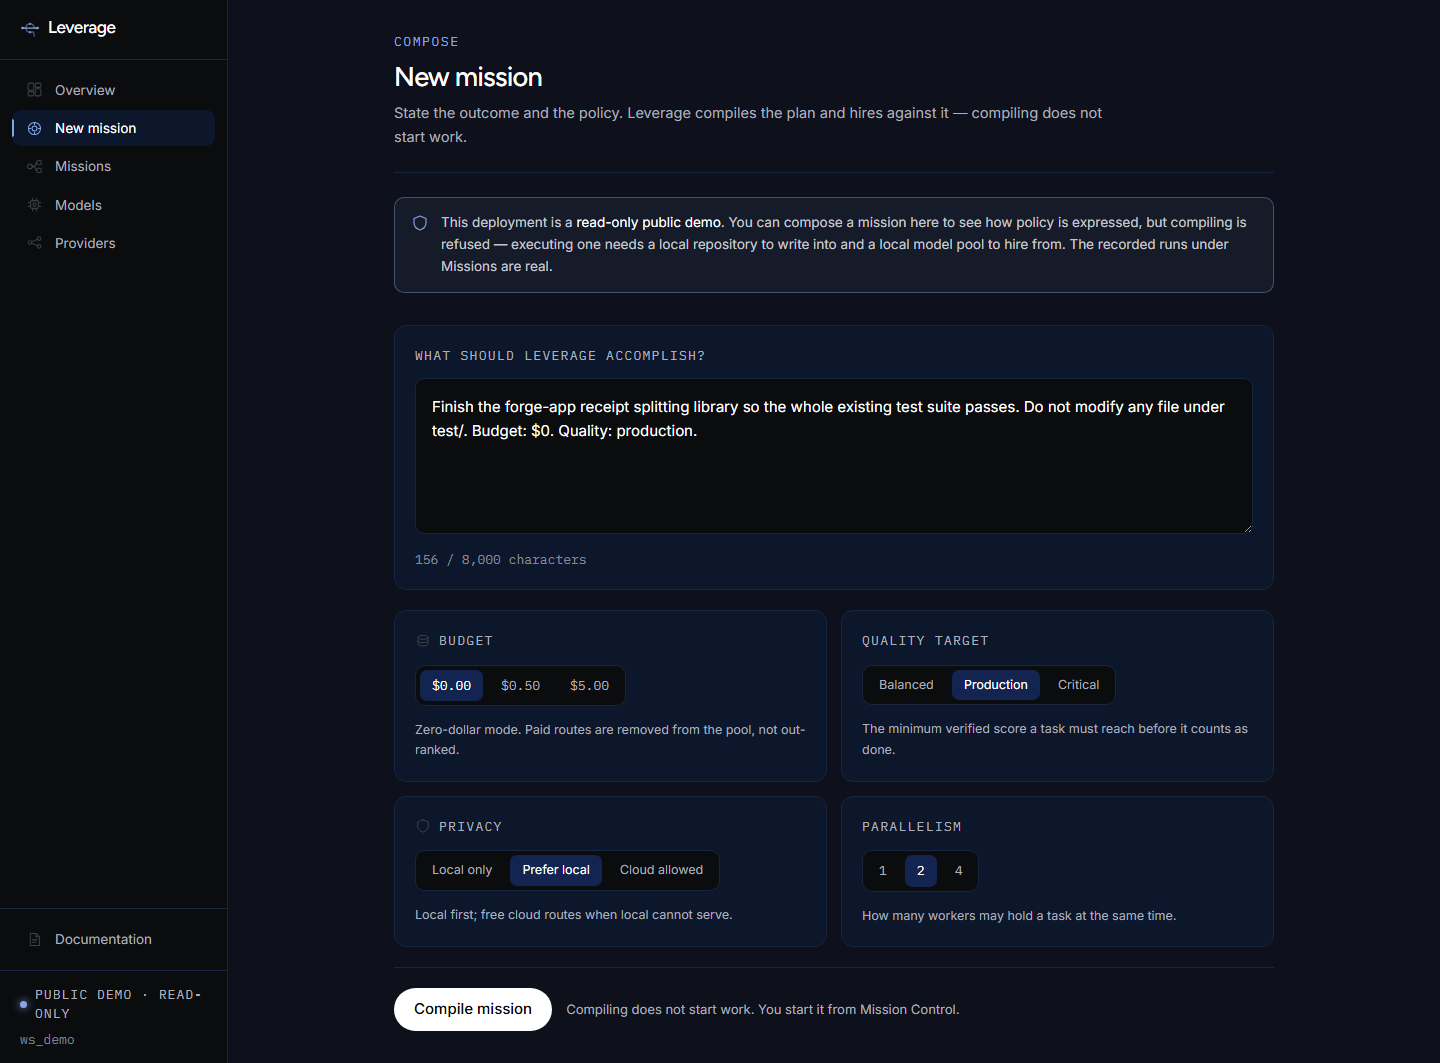
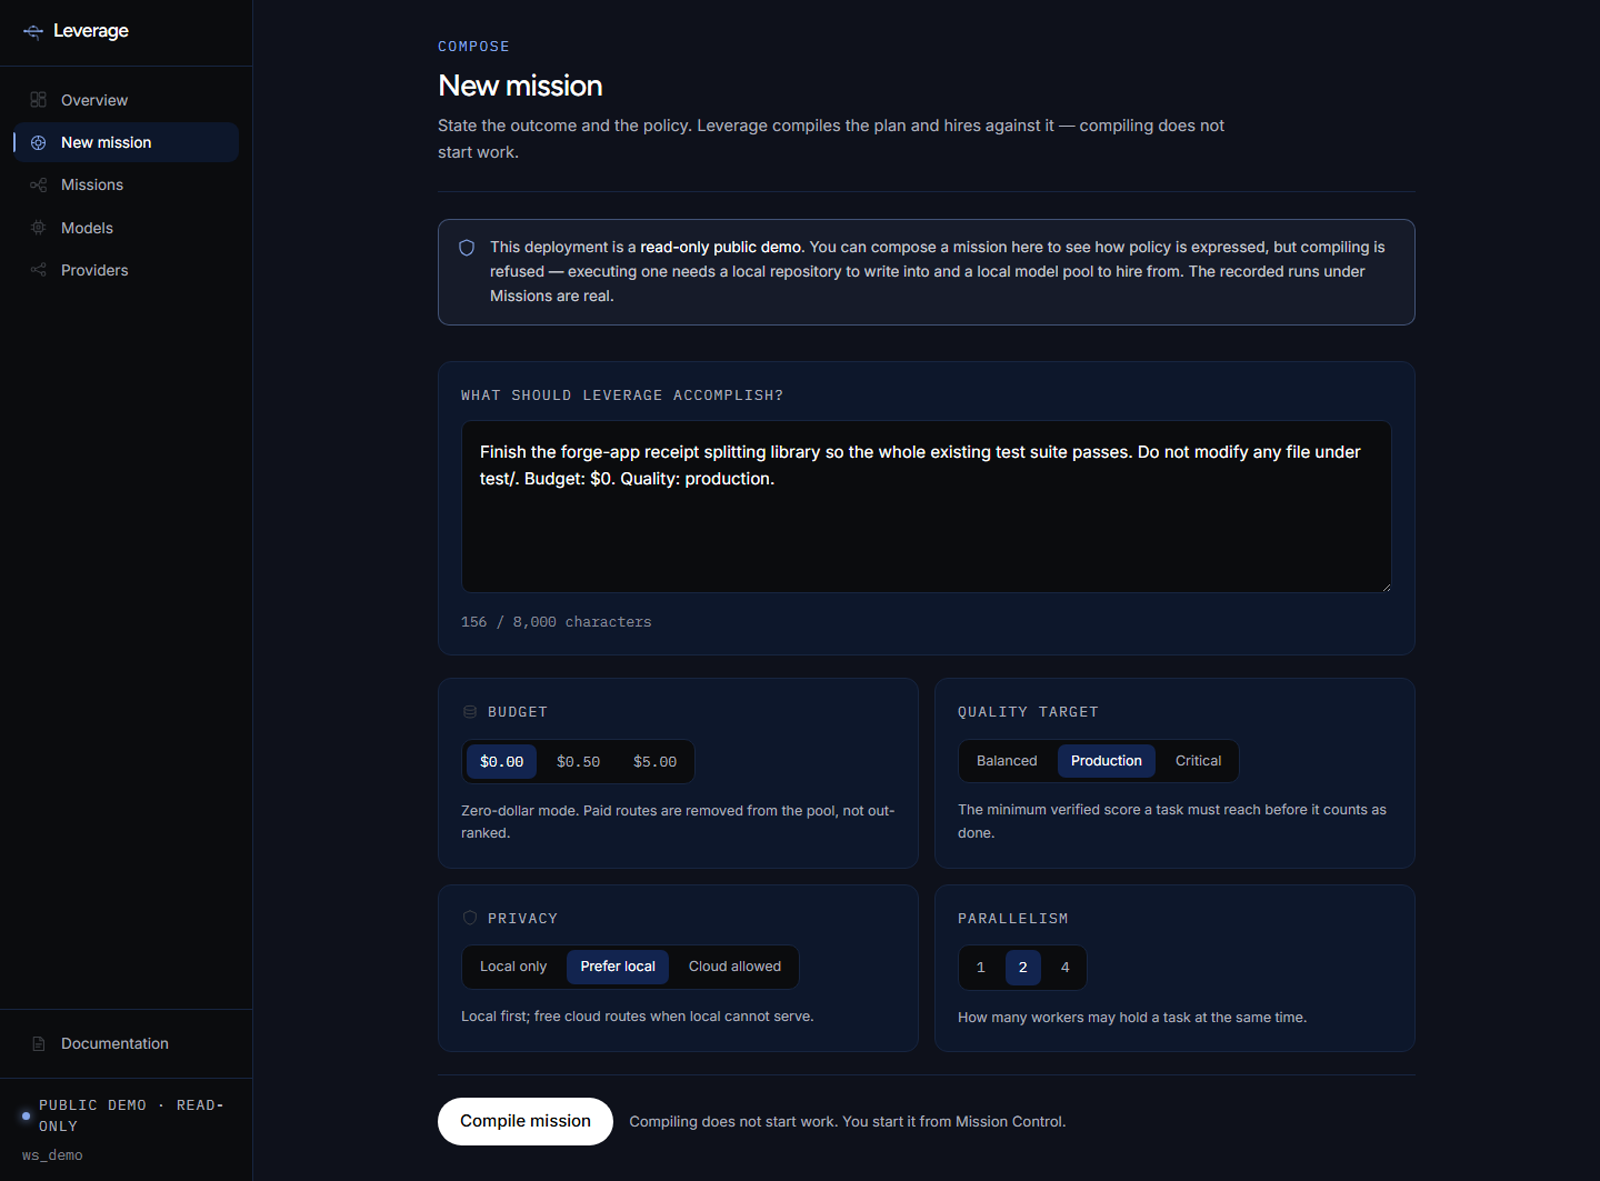
docs: put the product in the README, and gradient the state accents
The repo opened with prose and no picture of the thing. Adds the landing page,
the replay, Mission Control and the providers grid, plus badges that link to the
artifact behind each claim rather than asserting it.

The status dot was a flat fill, which reads as a printed circle. It is now a
radial gradient lit from the top left with a ring underneath, and the halo it
pulses is a gradient rather than a solid disc. Pill fills and the stat accent
rules follow the same light direction as the glass rims, so state badges belong
to the same material language. Pill text stays solid: gradient text at 10.5px is
unreadable.

Also fixes the contrast audit, which reported gradient-clipped text as 1.07:1
because background-clip lives on the parent while the text sits in a child span.
It walks ancestors now. Re-run after the fix: 12 pages, 0 failures.

diff --git a/src/components/app/shell.tsx b/src/components/app/shell.tsx
@@ -114,7 +114,10 @@ export function Stat({
       <span
         aria-hidden
         className="absolute inset-y-0 left-0 w-[2px]"
-        style={{ background: accent, opacity: tone === 'neutral' ? 0.5 : 0.9 }}
+        style={{
+          backgroundImage: `linear-gradient(180deg, ${accent} 0%, ${accent} 42%, transparent 100%)`,
+          opacity: tone === 'neutral' ? 0.55 : 0.95,
+        }}
       />
       <div className="flex items-start justify-between gap-3">
         <div className="mono text-[10.5px] uppercase tracking-[0.1em] text-[var(--color-ash)]">
@@ -201,16 +204,37 @@ export function Cell({
 
 export type Tone = 'pass' | 'fail' | 'warn' | 'live' | 'idle';
 
+/*
+ * Pill fills are gradients rather than flat tints, lit from the top left like the
+ * glass rims so state badges belong to the same material language. The text colour
+ * stays solid: gradient text at 10.5px is unreadable.
+ */
 const TONES: Record<Tone, { fg: string; bg: string; bd: string }> = {
-  pass: { fg: 'var(--color-state-pass)', bg: 'rgba(74,222,128,0.10)', bd: 'rgba(74,222,128,0.45)' },
-  fail: { fg: 'var(--color-state-fail)', bg: 'rgba(248,113,113,0.10)', bd: 'rgba(248,113,113,0.45)' },
-  warn: { fg: 'var(--color-state-warn)', bg: 'rgba(251,191,36,0.10)', bd: 'rgba(251,191,36,0.42)' },
+  pass: {
+    fg: 'var(--color-state-pass)',
+    bg: 'linear-gradient(135deg, rgba(74,222,128,0.20) 0%, rgba(52,211,153,0.07) 100%)',
+    bd: 'rgba(74,222,128,0.45)',
+  },
+  fail: {
+    fg: 'var(--color-state-fail)',
+    bg: 'linear-gradient(135deg, rgba(248,113,113,0.20) 0%, rgba(239,68,68,0.07) 100%)',
+    bd: 'rgba(248,113,113,0.45)',
+  },
+  warn: {
+    fg: 'var(--color-state-warn)',
+    bg: 'linear-gradient(135deg, rgba(251,191,36,0.20) 0%, rgba(217,119,6,0.07) 100%)',
+    bd: 'rgba(251,191,36,0.42)',
+  },
   live: {
     fg: 'var(--color-frosted-lilac)',
-    bg: 'rgba(133,166,233,0.10)',
+    bg: 'linear-gradient(135deg, rgba(133,166,233,0.22) 0%, rgba(98,95,255,0.08) 100%)',
     bd: 'rgba(133,166,233,0.45)',
   },
-  idle: { fg: 'var(--color-ash)', bg: 'rgba(171,174,187,0.07)', bd: 'var(--color-sapphire-hairline)' },
+  idle: {
+    fg: 'var(--color-ash)',
+    bg: 'linear-gradient(135deg, rgba(171,174,187,0.12) 0%, rgba(171,174,187,0.03) 100%)',
+    bd: 'var(--color-sapphire-hairline)',
+  },
 };
 
 export function Pill({
@@ -226,7 +250,7 @@ export function Pill({
   return (
     <span
       className="mono inline-flex items-center gap-1.5 rounded-full border px-2.5 py-1 text-[10.5px] uppercase tracking-[0.08em]"
-      style={{ color: t.fg, background: t.bg, borderColor: t.bd }}
+      style={{ color: t.fg, backgroundImage: t.bg, borderColor: t.bd }}
     >
       {icon}
       {children}

diff --git a/src/app/page.tsx b/src/app/page.tsx
@@ -130,9 +130,9 @@ export default async function Home() {
               <div className="min-w-0">
                 <Reveal y={12}>
                   <div className="mono mb-7 inline-flex items-center gap-2 rounded-full border border-[var(--color-sapphire-hairline)] bg-[rgba(13,23,43,0.6)] px-3.5 py-1.5 text-[11px] text-[var(--color-frosted-lilac)] backdrop-blur">
-                    <span className="relative flex h-1.5 w-1.5">
-                      <span className="absolute inline-flex h-full w-full animate-ping rounded-full bg-[var(--color-state-pass)] opacity-60" />
-                      <span className="relative inline-flex h-1.5 w-1.5 rounded-full bg-[var(--color-state-pass)]" />
+                    <span className="relative flex h-2 w-2">
+                      <span className="dot-live-halo absolute inline-flex h-full w-full animate-ping rounded-full" />
+                      <span className="dot-live relative inline-flex h-2 w-2 rounded-full" />
                     </span>
                     Hire your own host seat. No API key.
                   </div>
@@ -622,11 +622,11 @@ function Ribbon({ label, node, accent }: { label: string; node: React.ReactNode;
         {label}
       </div>
       <div
-        className="mt-1.5 text-[28px]"
+        className={`mt-1.5 text-[28px] ${accent ? 'grad-text-pass' : ''}`}
         style={{
           fontFamily: 'var(--font-display)',
           fontWeight: 500,
-          color: accent ? 'var(--color-state-pass)' : 'var(--color-quartz)',
+          color: accent ? undefined : 'var(--color-quartz)',
         }}
       >
         {node}

diff --git a/src/app/globals.css b/src/app/globals.css
@@ -126,6 +126,50 @@ body {
   border-radius: var(--radius-card);
 }
 
+/*
+ * Status dot.
+ *
+ * A flat fill reads as a printed circle. A radial gradient with the light source
+ * offset toward the top left gives it a curved surface, and the ring underneath
+ * separates it from whatever it sits on rather than relying on the fill alone.
+ */
+.dot-live {
+  background:
+    radial-gradient(circle at 32% 28%, #a7f3c8 0%, #4ade80 46%, #16a34a 100%);
+  box-shadow:
+    0 0 0 1px rgba(74, 222, 128, 0.28),
+    0 0 9px 1px rgba(74, 222, 128, 0.5);
+}
+
+.dot-live-halo {
+  background: radial-gradient(circle, rgba(74, 222, 128, 0.55) 0%, rgba(74, 222, 128, 0) 70%);
+}
+
+/*
+ * Gradient rules for the accents that were flat.
+ *
+ * Used on the meaningful pieces only: state, the primary action, section rules.
+ * A gradient on every surface is how a page turns to soup.
+ */
+.grad-text-pass {
+  background: linear-gradient(100deg, #4ade80 0%, #86efac 55%, #34d399 100%);
+  -webkit-background-clip: text;
+  background-clip: text;
+  color: transparent;
+}
+
+.grad-rule {
+  height: 1px;
+  border: 0;
+  background: linear-gradient(
+    90deg,
+    rgba(36, 55, 90, 0) 0%,
+    rgba(133, 166, 233, 0.55) 22%,
+    rgba(98, 95, 255, 0.45) 55%,
+    rgba(36, 55, 90, 0) 100%
+  );
+}
+
 .surface-highlight {
   background: var(--color-cobalt);
   border: 1px solid #1e2b48;

diff --git a/README.md b/README.md
@@ -2,12 +2,21 @@
 
 **One frontier brain. An elastic workforce.**
 
+> Your best model should make the expensive decisions. It should not write the fortieth test.
+
+[![Live](https://img.shields.io/badge/live-useleverage.vercel.app-4ade80?style=flat-square)](https://useleverage.vercel.app)
+[![Tests](https://img.shields.io/badge/tests-47%20passing-4ade80?style=flat-square)](tests/invariants.test.ts)
+[![Paid inference](https://img.shields.io/badge/actual%20paid%20inference-%240.00-4ade80?style=flat-square)](demo/canonical-run.json)
+[![RocketRide](https://img.shields.io/badge/RocketRide-staging%20verified-85a6e9?style=flat-square)](docs/ROCKETRIDE_FINDINGS.md)
+
 **Live: https://useleverage.vercel.app** — a read-only public demo, seeded with the
 runs that actually happened. Every mutating route answers `403`; executing a mission
 needs a local repository to write into and a local model pool to hire from.
 
+![Leverage landing page](docs/shots/landing-hero.png)
+
 Leverage gives Claude, Codex and other MCP hosts a dynamic workforce of local, free and
-connected models — then verifies the work and replaces workers that fail.
+connected models, then verifies the work and replaces workers that fail.
 
 Your best model should decide the architecture. It should not spend the same premium
 compute writing the fortieth boilerplate test.
@@ -28,6 +37,13 @@ against each task, hires the best *eligible* one, gives it the smallest context 
 the job, executes it as a RocketRide pipeline, and refuses to call the task done until a
 compiler or a test runner says so. When a worker dies it keeps the worker's understanding
 and hands it to a replacement.
+
+### The cognitive handoff, replayed from the real event log
+
+![Mission replay](docs/shots/demo.png)
+
+*A worker hits a provider limit. Leverage checkpoints what it understood, hires a
+replacement, and the work resumes instead of restarting.*
 
 ## See it produce something
 
@@ -50,6 +66,17 @@ npm run fixture:reset:arcade
 npm run mission -- --arcade
 cd benchmark/arcade && npm test
 ```
+
+### Mission Control
+
+![Mission Control](docs/shots/app-overview.png)
+
+### Connected compute
+
+![Providers](docs/shots/app-providers.png)
+
+*Local runtimes, free routes, your MCP host seat, and your agent-CLI subscription.
+Credential values never leave the server and are never rendered.*
 
 ## The run this repository ships with
 
